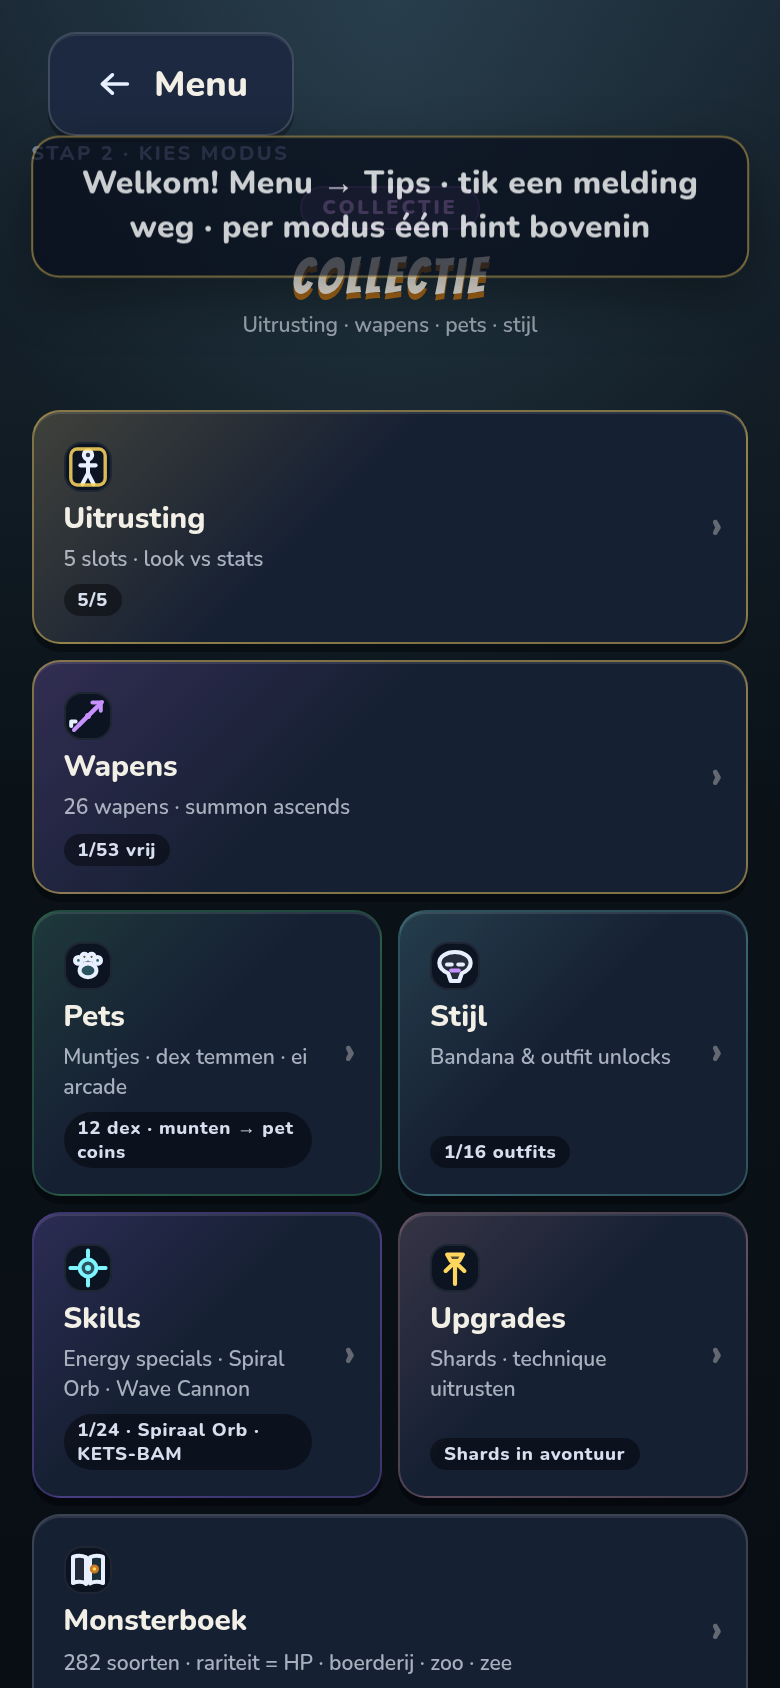
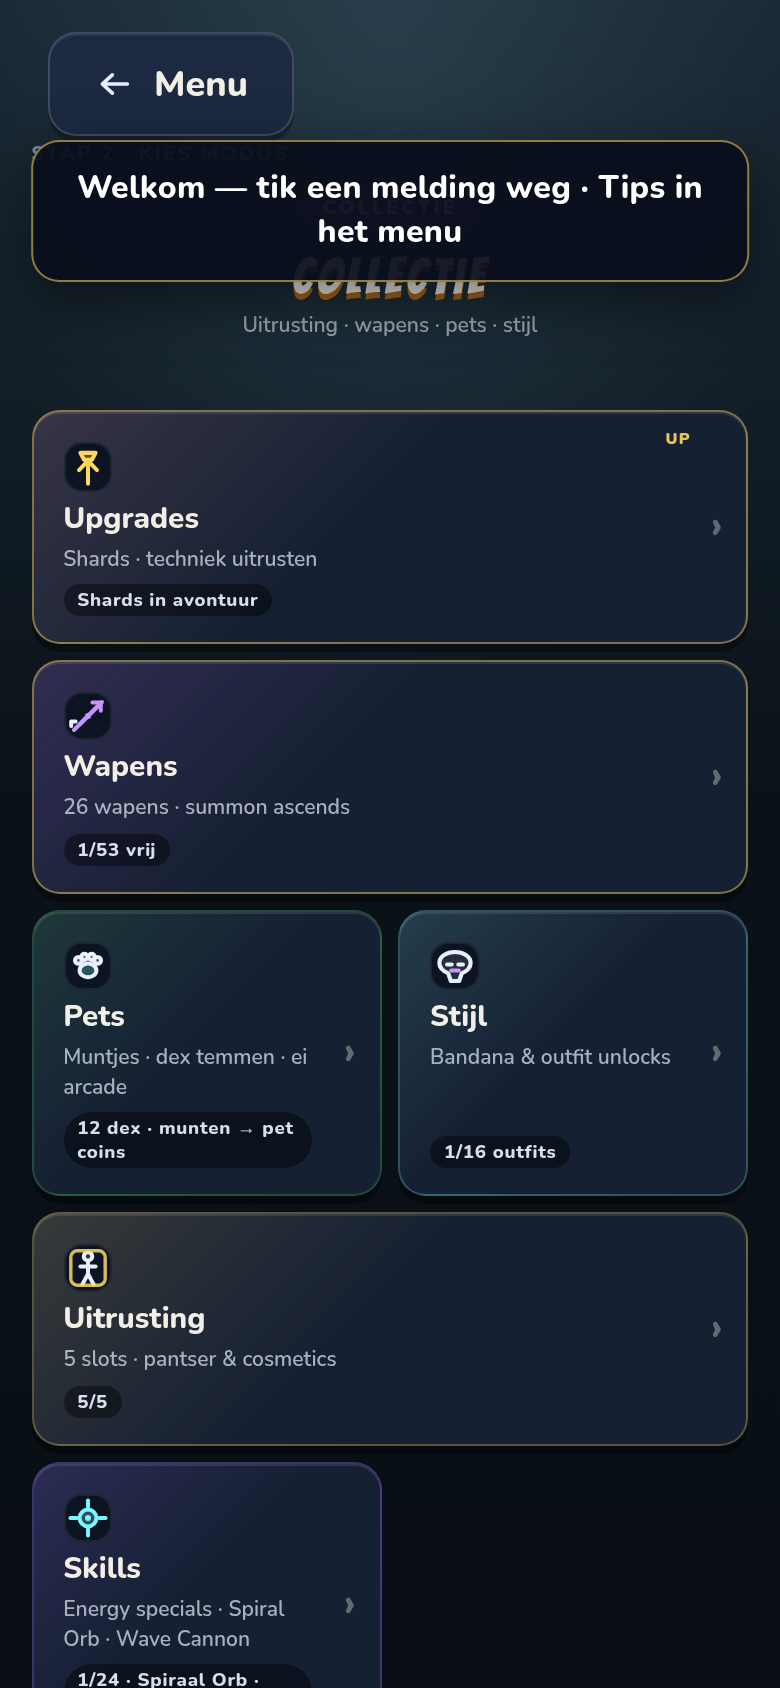
fix(gear): keep slot Uitdoen on the same row
Slot cards were width 100%, so the take-off control wrapped under
each row on a phone. Cards now shrink in the row and drop the extra
chevron so Uitdoen stays beside the slot.

diff --git a/styles/main.css b/styles/main.css
@@ -3307,7 +3307,7 @@
     display: flex; flex-direction: column; gap: 8px;
   }
   .gear-slot-row {
-    display: flex; align-items: stretch; gap: 6px; width: 100%;
+    display: flex; flex-wrap: nowrap; align-items: stretch; gap: 6px; width: 100%;
   }
   .gear-slot-card.hub-tile,
   .gear-slot-card {
@@ -3339,6 +3339,14 @@
     color: #ffd75e; text-transform: uppercase;
   }
   .gear-slot-card:active { transform: translateY(2px); box-shadow: 0 1px 0 rgba(0,0,0,.26); }
+  .gear-slot-row .gear-slot-card.hub-tile,
+  .gear-slot-row .gear-slot-card {
+    flex: 1 1 auto;
+    width: auto;
+    min-width: 0;
+    padding-right: 12px;
+  }
+  .gear-slot-row .gear-slot-card::after { display: none; }
   .gear-slot-card .hub-tile-ico,
   .gear-slot-swatch {
     width: 36px; height: 36px; min-width: 36px; border-radius: 10px;
@@ -3369,9 +3377,10 @@
   .gear-slot-card .gear-pill { flex-shrink: 0; }
   .gear-slot-clear {
     flex: 0 0 auto;
-    min-width: max(56px, var(--touch-min));
+    width: max(64px, var(--touch-min));
+    min-width: max(64px, var(--touch-min));
     min-height: max(56px, var(--touch-min));
-    padding: 8px 8px;
+    padding: 8px 6px;
     border-radius: 14px;
     border: 1px solid rgba(124, 245, 255, .45);
     background: var(--menu-tile-solid);
@@ -3507,10 +3516,11 @@
   }
   .gear-filter-btn .gear-filter-n {
     display: inline-block;
-    margin-left: 4px;
-    font-size: 10px;
+    margin-left: 5px;
+    font-size: 11px;
     font-weight: 800;
-    opacity: .8;
+    opacity: .85;
+    font-variant-numeric: tabular-nums;
   }
   .gear-filter-btn.sel .gear-filter-n { opacity: 1; }
   .gear-filter-btn[data-gear-filter="lock"].sel {
